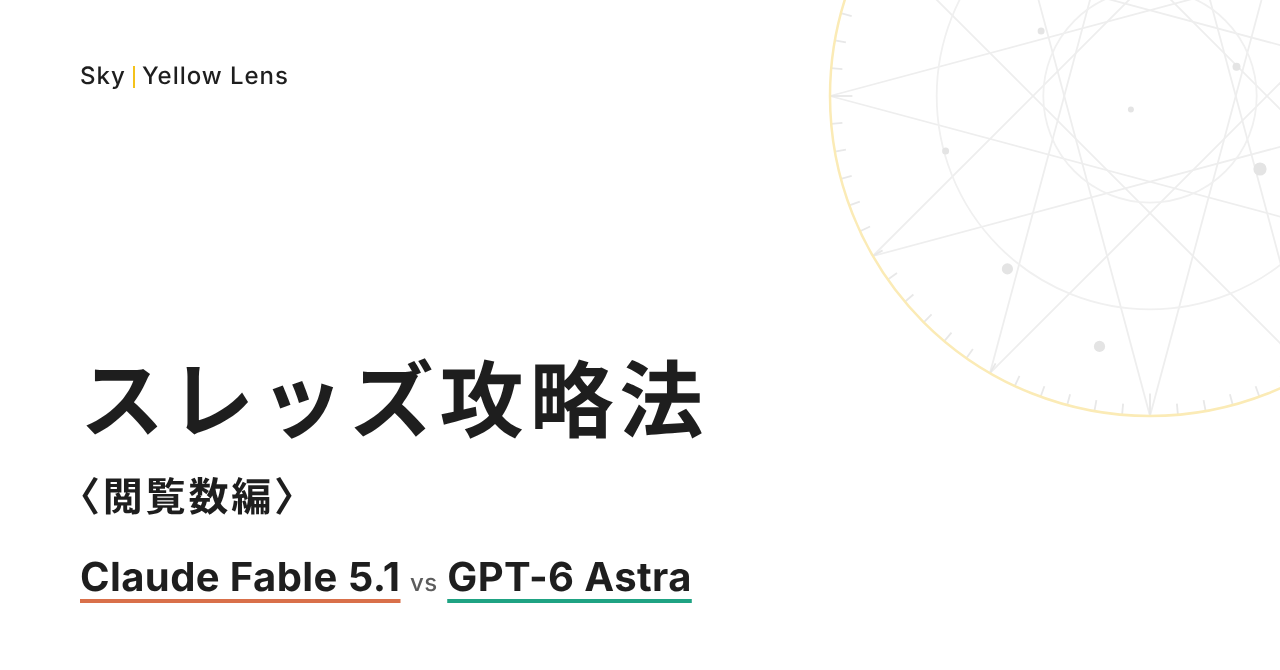
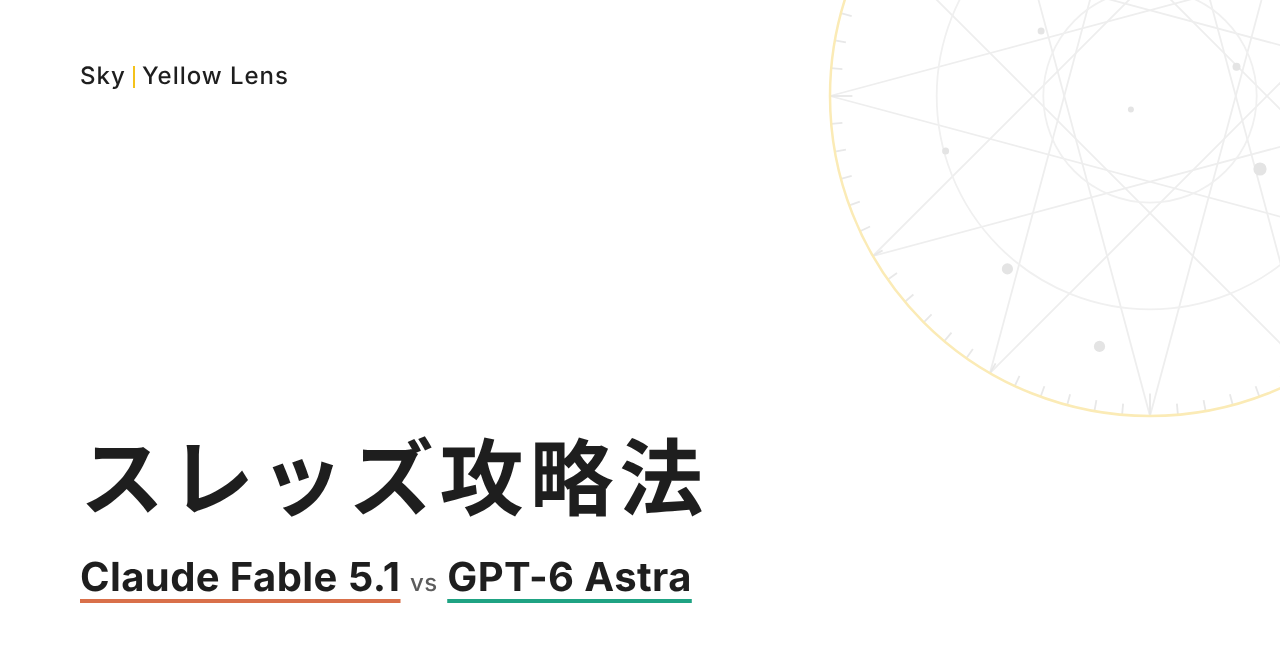
threads: 題を「スレッズ攻略法」に（〈閲覧数編〉を外す）、OG画像を差し替え
Claude-Session: https://claude.ai/code/session_014iy3dMLawkV7kCQgjdwNjo

Changed region(s): [[0.0625, 0.5373, 0.5625, 0.7761]]

diff --git a/threads/claude/index.html b/threads/claude/index.html
@@ -3,10 +3,10 @@
 <head>
 <meta charset="utf-8">
 <meta name="viewport" content="width=device-width, initial-scale=1">
-<title>スレッズ攻略法〈閲覧数編〉Claude Fable 5.1 版｜Sky｜Yellow Lens</title>
+<title>スレッズ攻略法Claude Fable 5.1 版｜Sky｜Yellow Lens</title>
 <meta name="description" content="Threads の1投稿あたりの閲覧数を伸ばす方法を、Meta の公式情報を軸に調べた Claude Fable 5.1 の成果物。同じ依頼文で GPT-6 Astra にも依頼し、ふたつの答えを並べた検証室の記録。">
 <meta name="theme-color" content="#FFFFFF">
-<meta property="og:title" content="スレッズ攻略法〈閲覧数編〉Claude Fable 5.1 版｜Sky｜Yellow Lens">
+<meta property="og:title" content="スレッズ攻略法Claude Fable 5.1 版｜Sky｜Yellow Lens">
 <meta property="og:description" content="Threads の1投稿あたりの閲覧数を伸ばす方法を、Meta の公式情報を軸に調べた Claude Fable 5.1 の成果物。同じ依頼文で GPT-6 Astra にも依頼し、ふたつの答えを並べた検証室の記録。">
 <meta property="og:type" content="article">
 <meta property="og:locale" content="ja_JP">
@@ -90,12 +90,12 @@ table.cols4 td:first-child{font-weight:500}
 <body>
 <header class="site-header"><div class="wrap">
 <a class="brand" href="https://yokonarabi-lab.github.io/threads/"><span>Sky</span><span class="bar" aria-hidden="true"></span><span>Yellow Lens</span></a>
-<nav class="nav" aria-label="ページ内の移動"><a href="https://yokonarabi-lab.github.io/threads/">スレッズ攻略法〈閲覧数編〉</a><a href="https://note.com/sky_yellowlens" rel="noopener">note</a></nav>
+<nav class="nav" aria-label="ページ内の移動"><a href="https://yokonarabi-lab.github.io/threads/">スレッズ攻略法</a><a href="https://note.com/sky_yellowlens" rel="noopener">note</a></nav>
 </div></header>
 <main class="wrap">
 
 <div class="doc-head">
-<p class="shelf">検証室｜スレッズ攻略法〈閲覧数編〉</p>
+<p class="shelf">検証室｜スレッズ攻略法</p>
 <p class="model"><span class="u claude">Claude Fable 5.1</span><span class="vs">版</span></p>
 <p class="theme">Claude Fable 5.1 vs GPT-6 Astra — 同じ依頼文で、Threads の1投稿あたりの閲覧数を伸ばす方法を調べてもらった成果物</p>
 </div>

diff --git a/threads/chatgpt/index.html b/threads/chatgpt/index.html
@@ -3,10 +3,10 @@
 <head>
 <meta charset="utf-8">
 <meta name="viewport" content="width=device-width, initial-scale=1">
-<title>スレッズ攻略法〈閲覧数編〉GPT-6 Astra 版｜Sky｜Yellow Lens</title>
+<title>スレッズ攻略法GPT-6 Astra 版｜Sky｜Yellow Lens</title>
 <meta name="description" content="Threads の1投稿あたりの閲覧数を伸ばす方法を、Meta の公式情報を軸に調べた GPT-6 Astra の成果物。同じ依頼文で Claude Fable 5.1 にも依頼し、ふたつの答えを並べた検証室の記録。">
 <meta name="theme-color" content="#FFFFFF">
-<meta property="og:title" content="スレッズ攻略法〈閲覧数編〉GPT-6 Astra 版｜Sky｜Yellow Lens">
+<meta property="og:title" content="スレッズ攻略法GPT-6 Astra 版｜Sky｜Yellow Lens">
 <meta property="og:description" content="Threads の1投稿あたりの閲覧数を伸ばす方法を、Meta の公式情報を軸に調べた GPT-6 Astra の成果物。同じ依頼文で Claude Fable 5.1 にも依頼し、ふたつの答えを並べた検証室の記録。">
 <meta property="og:type" content="article">
 <meta property="og:locale" content="ja_JP">
@@ -90,12 +90,12 @@ table.cols4 td:first-child{font-weight:500}
 <body>
 <header class="site-header"><div class="wrap">
 <a class="brand" href="https://yokonarabi-lab.github.io/threads/"><span>Sky</span><span class="bar" aria-hidden="true"></span><span>Yellow Lens</span></a>
-<nav class="nav" aria-label="ページ内の移動"><a href="https://yokonarabi-lab.github.io/threads/">スレッズ攻略法〈閲覧数編〉</a><a href="https://note.com/sky_yellowlens" rel="noopener">note</a></nav>
+<nav class="nav" aria-label="ページ内の移動"><a href="https://yokonarabi-lab.github.io/threads/">スレッズ攻略法</a><a href="https://note.com/sky_yellowlens" rel="noopener">note</a></nav>
 </div></header>
 <main class="wrap">
 
 <div class="doc-head">
-<p class="shelf">検証室｜スレッズ攻略法〈閲覧数編〉</p>
+<p class="shelf">検証室｜スレッズ攻略法</p>
 <p class="model"><span class="u gpt">GPT-6 Astra</span><span class="vs">版</span></p>
 <p class="theme">Claude Fable 5.1 vs GPT-6 Astra — 同じ依頼文で、Threads の1投稿あたりの閲覧数を伸ばす方法を調べてもらった成果物</p>
 </div>

diff --git a/threads/index.html b/threads/index.html
@@ -3,10 +3,10 @@
 <head>
 <meta charset="utf-8">
 <meta name="viewport" content="width=device-width, initial-scale=1">
-<title>スレッズ攻略法〈閲覧数編〉｜Sky｜Yellow Lens</title>
+<title>スレッズ攻略法｜Sky｜Yellow Lens</title>
 <meta name="description" content="Threads の1投稿あたりの閲覧数を伸ばす方法。同じ依頼文で Claude Fable 5.1 と GPT-6 Astra に依頼した、ふたつの成果物。">
 <meta name="theme-color" content="#FFFFFF">
-<meta property="og:title" content="スレッズ攻略法〈閲覧数編〉｜Sky｜Yellow Lens">
+<meta property="og:title" content="スレッズ攻略法｜Sky｜Yellow Lens">
 <meta property="og:description" content="Threads の1投稿あたりの閲覧数を伸ばす方法。同じ依頼文で Claude Fable 5.1 と GPT-6 Astra に依頼した、ふたつの成果物。">
 <meta property="og:type" content="article">
 <meta property="og:locale" content="ja_JP">
@@ -90,13 +90,13 @@ table.cols4 td:first-child{font-weight:500}
 <body>
 <header class="site-header"><div class="wrap">
 <a class="brand" href="https://yokonarabi-lab.github.io/threads/"><span>Sky</span><span class="bar" aria-hidden="true"></span><span>Yellow Lens</span></a>
-<nav class="nav" aria-label="ページ内の移動"><a href="https://yokonarabi-lab.github.io/threads/">スレッズ攻略法〈閲覧数編〉</a><a href="https://note.com/sky_yellowlens" rel="noopener">note</a></nav>
+<nav class="nav" aria-label="ページ内の移動"><a href="https://yokonarabi-lab.github.io/threads/">スレッズ攻略法</a><a href="https://note.com/sky_yellowlens" rel="noopener">note</a></nav>
 </div></header>
 <main class="wrap">
 
 <div class="doc-head">
 <p class="shelf">検証室</p>
-<h1 style="font-size:30px;line-height:1.4;margin:0 0 8px">スレッズ攻略法〈閲覧数編〉</h1>
+<h1 style="font-size:30px;line-height:1.4;margin:0 0 8px">スレッズ攻略法</h1>
 <p class="model" style="font-size:22px;margin:6px 0 10px"><span class="u claude">Claude Fable 5.1</span><span class="vs">vs</span><span class="u gpt">GPT-6 Astra</span></p>
 <p class="theme">同じ依頼文で、Threads の1投稿あたりの閲覧数を伸ばす方法を調べてもらった。ふたつの成果物をそのまま置いている。</p>
 </div>
